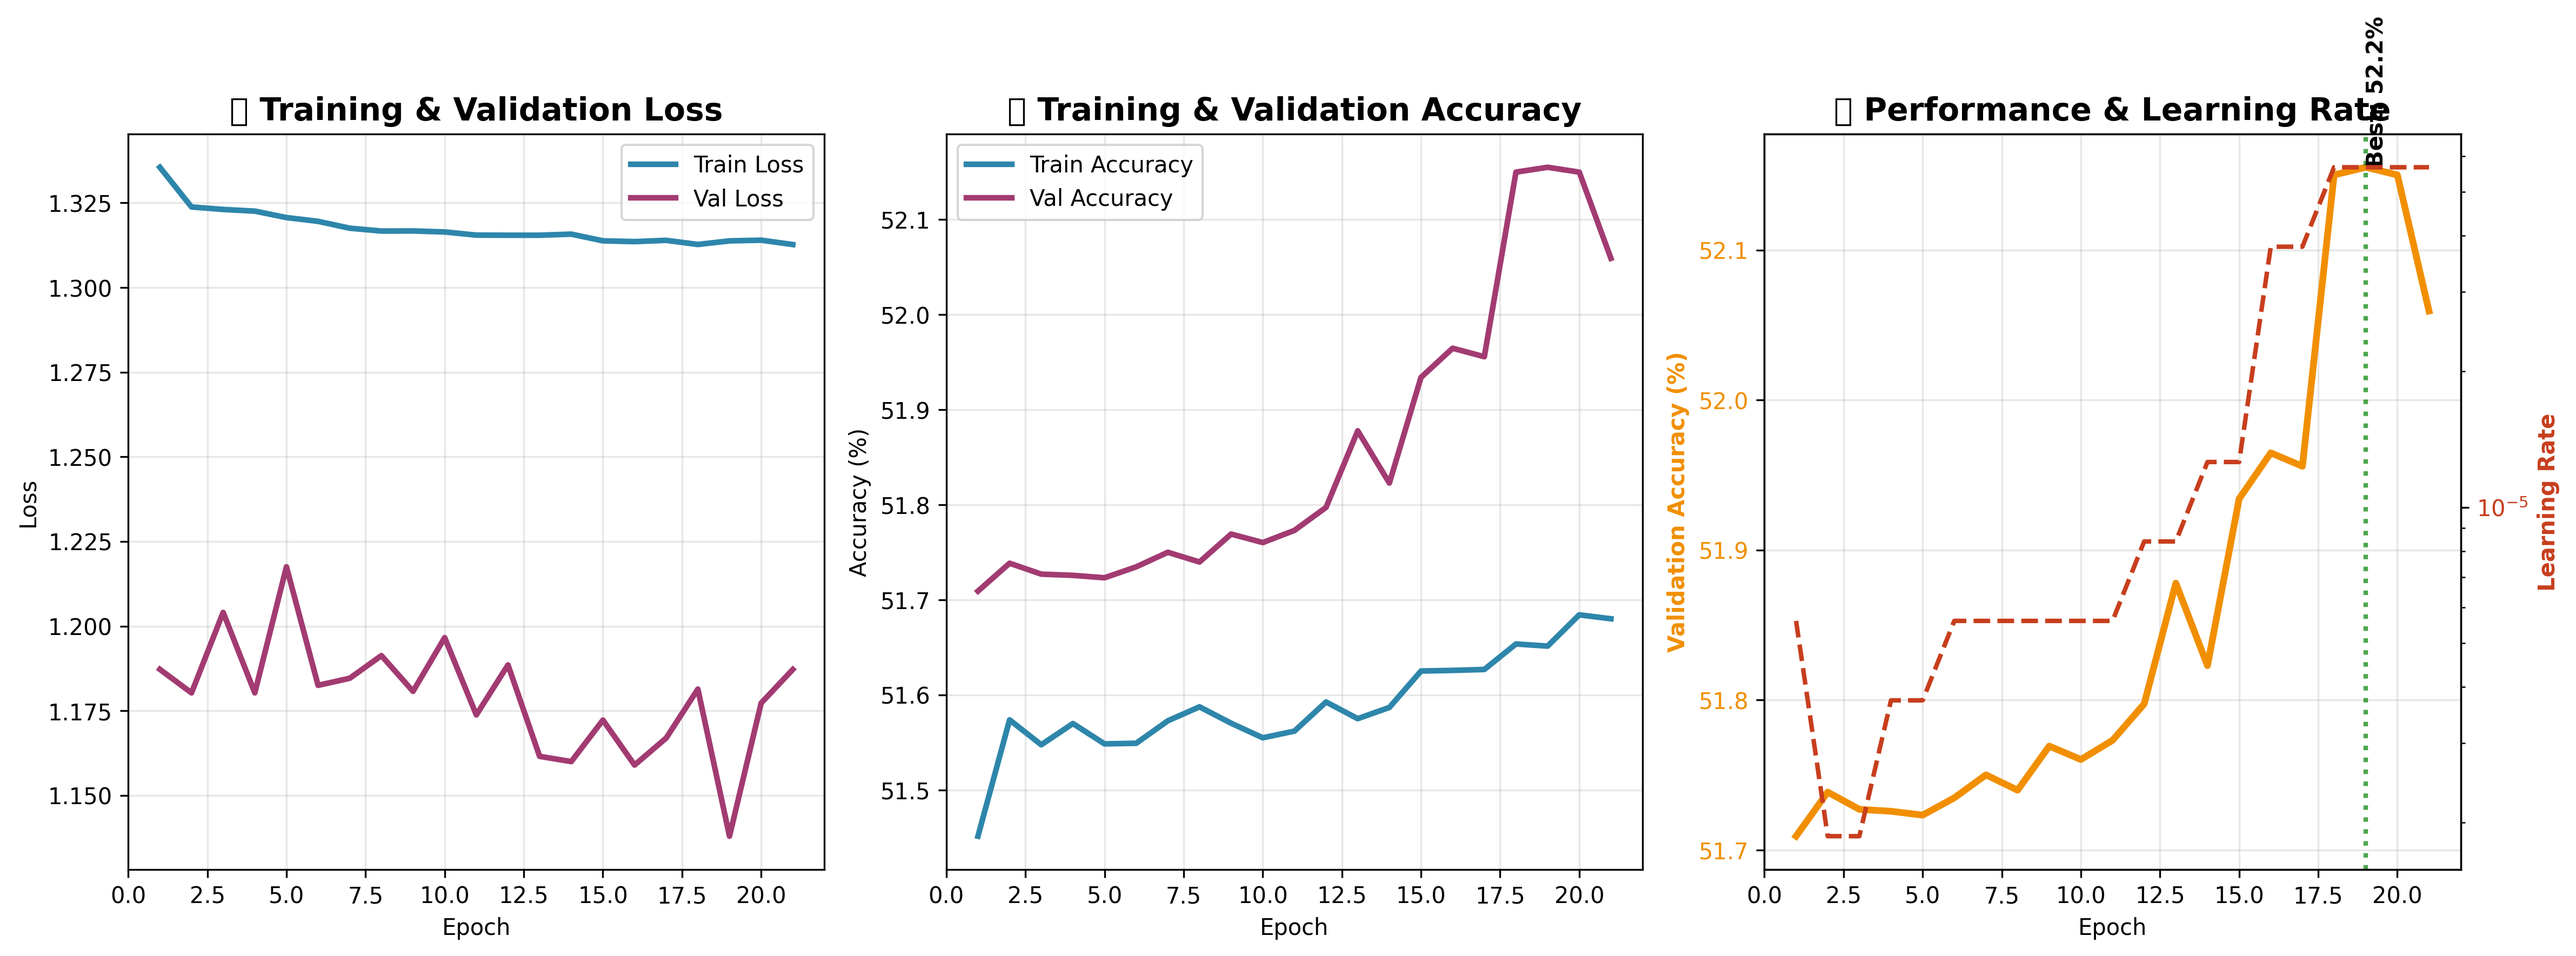
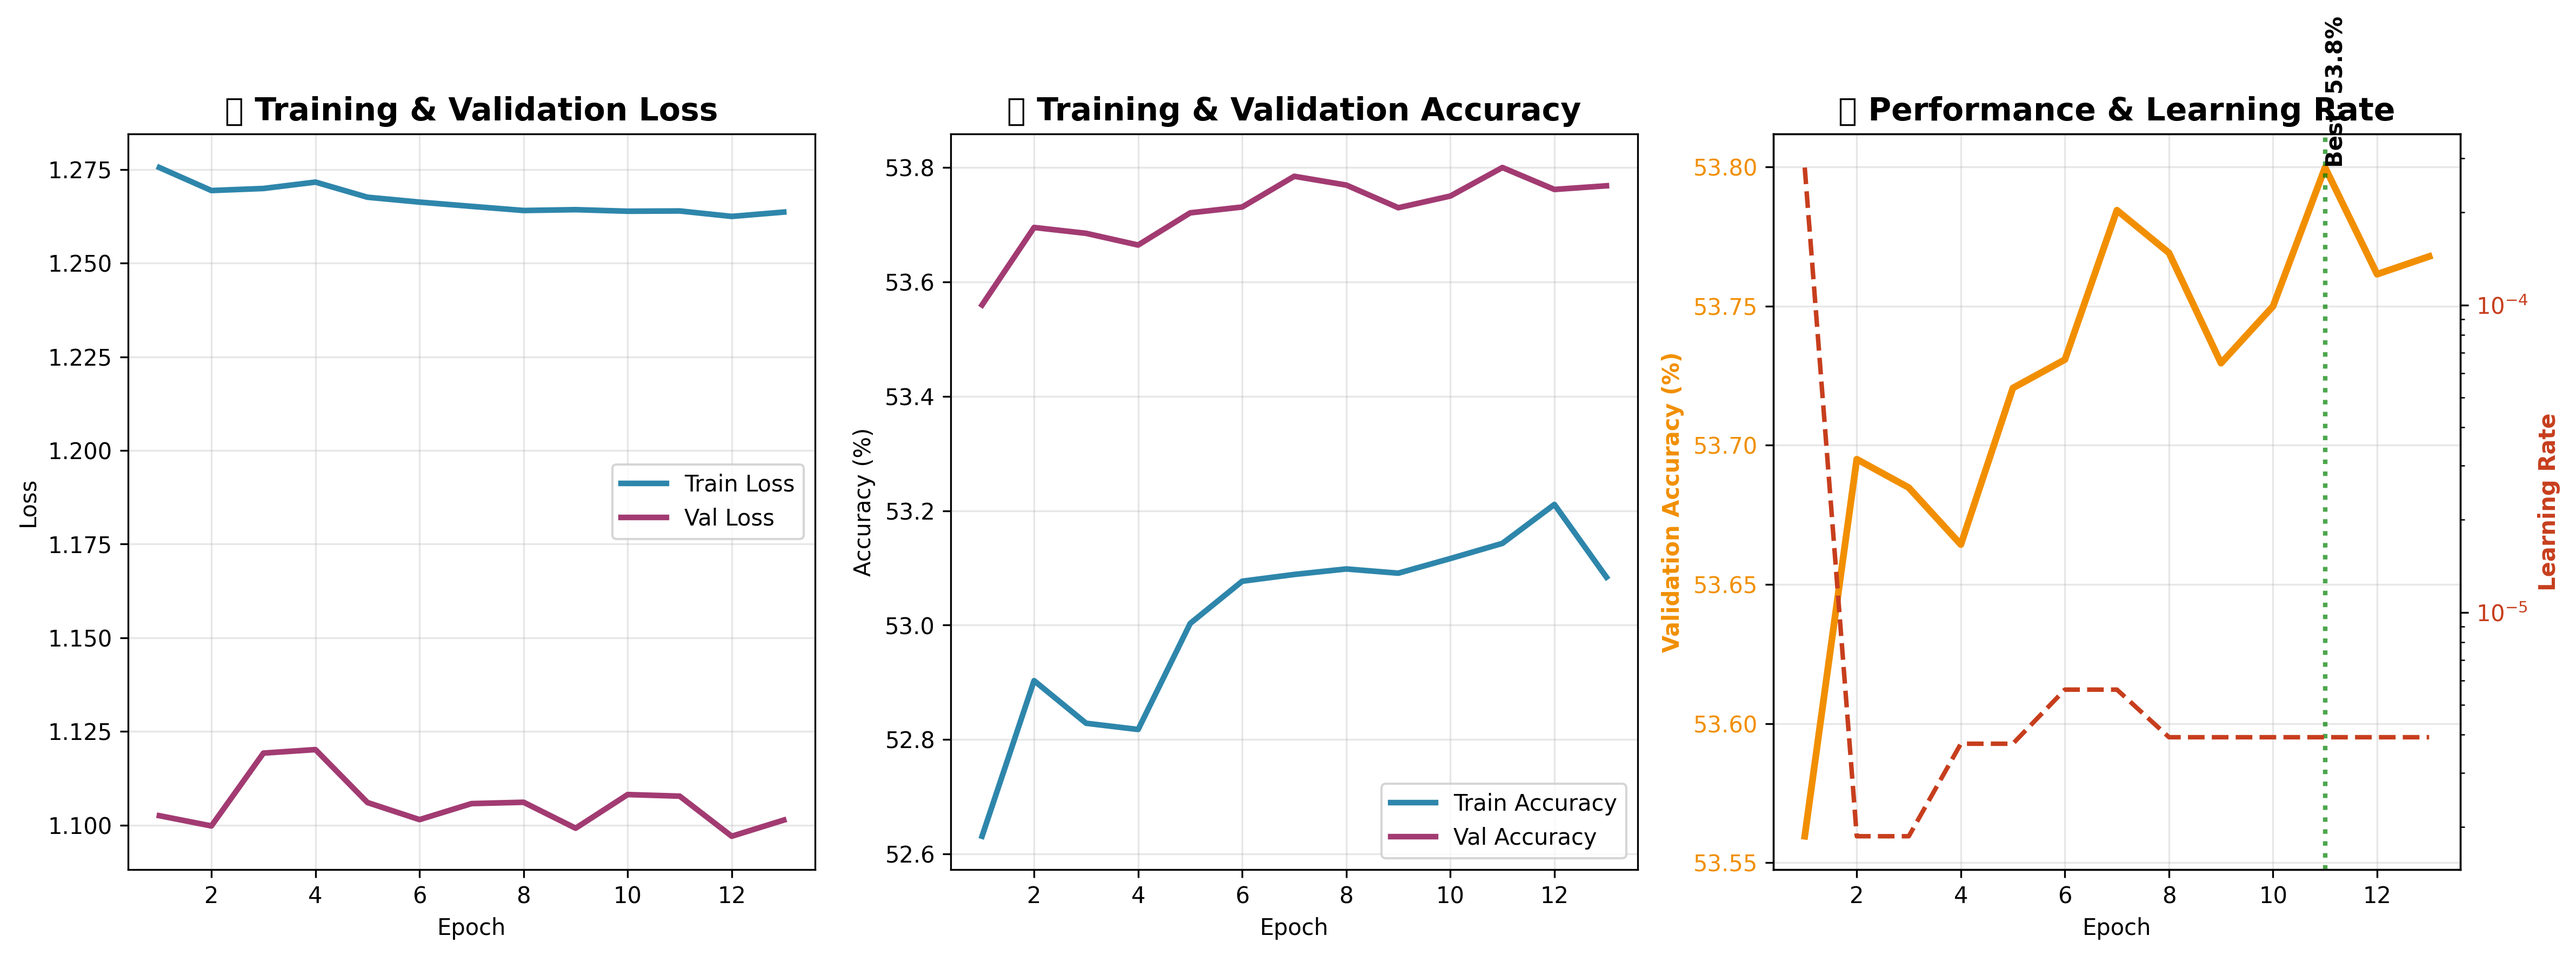
8/6 Changes
Made model bigger
Bigger batch sizes
Switched to one-cycle learning rate scheduler
150 epochs

diff --git a/price model/src/models/timesnet_hybrid.py b/price model/src/models/timesnet_hybrid.py
@@ -54,6 +54,7 @@ class MultiScaleCNN(nn.Module):
         out = torch.cat([b1, b3, b5], dim=1)  # (B, 3*out_channels, T)
         # Global pooling over time dim (T=5) ➜ (B, C)
         out = F.adaptive_avg_pool1d(out, 1).squeeze(-1)
+        out = F.dropout(out, p=0.3, training=self.training)  # Added dropout for regularisation
         return out  # (B, C)
 
 
@@ -127,12 +128,13 @@ class TimesNetEncoder(nn.Module):
 # Gated Residual Fusion + Classifier
 # ---------------------------------------------------------------------------
 class TimesNetHybrid(nn.Module):
-    def __init__(self, features_per_day: int = 62, num_classes: int = 5):
+    def __init__(self, features_per_day: int = 62, num_classes: int = 5,
+                 cnn_channels: int = 256, timesnet_emb: int = 384, timesnet_depth: int = 4):
         super().__init__()
-        self.cnn = MultiScaleCNN(features_per_day, out_channels=96)  # ➜ 288-d
-        self.timesnet = TimesNetEncoder(in_features=features_per_day, emb_dim=192, depth=3)  # 192-d
-        fused_dim = 288  # cnn
-        times_dim = 192
+        self.cnn = MultiScaleCNN(features_per_day, out_channels=cnn_channels)  # ➜ 3*cnn_channels-d
+        self.timesnet = TimesNetEncoder(in_features=features_per_day, emb_dim=timesnet_emb, depth=timesnet_depth)
+        fused_dim = cnn_channels * 3  # from MultiScaleCNN concat
+        times_dim = timesnet_emb
         self.gate = nn.Sequential(
             nn.Linear(fused_dim + times_dim, fused_dim, bias=True),
             nn.Sigmoid()
@@ -161,9 +163,11 @@ class TimesNetHybrid(nn.Module):
 # Factory
 # ---------------------------------------------------------------------------
 
-def create_timesnet_hybrid(features_per_day: int = 62, num_classes: int = 5):
-    """Factory so trainers can import a single function."""
-    return TimesNetHybrid(features_per_day=features_per_day, num_classes=num_classes)
+def create_timesnet_hybrid(features_per_day: int = 62, num_classes: int = 5,
+                            cnn_channels: int = 256, timesnet_emb: int = 384, timesnet_depth: int = 4):
+    """Factory that allows passing bigger model hyperparameters."""
+    return TimesNetHybrid(features_per_day=features_per_day, num_classes=num_classes,
+                          cnn_channels=cnn_channels, timesnet_emb=timesnet_emb, timesnet_depth=timesnet_depth)
 
 
 if __name__ == "__main__":

diff --git a/price model/src/training/research_trainer.py b/price model/src/training/research_trainer.py
@@ -180,7 +180,7 @@ class EnhancedCNNResearchTrainer:
         self.patience_counter = 0
         
         # 🎯 LEARNING RATE STRATEGY 
-        self.lr_strategy = 'adaptive'  # Revert to proven fast method
+        self.lr_strategy = 'onecycle'  # Regular OneCycleLR schedule (aggressive off)
         self.use_swa = True  # Enable Stochastic Weight Averaging for final accuracy boost
         
         # Mixed precision training for better performance
@@ -1122,8 +1122,8 @@ def main():
     # ============================================================
     # These settings use the proven adaptive scheduler that achieved 53.7%
     # Combined with extended training and enhanced regularization for 60%+ target
-    batch_size = 32              # Reduced from 64 → Better generalization with smaller batches
-    epochs = 100                 # Extended for proven adaptive method → Should reach 55-60% faster
+    batch_size = 128              # Reduced from 64 → Better generalization with smaller batches
+    epochs = 150                 # Extended for proven adaptive method → Should reach 55-60% faster
     learning_rate = 2.8e-4       # Set to your observed optimal value → Adaptive scheduler will build on this
     weight_decay = 5e-4          # Increased from 1e-4 → Stronger L2 regularization
     test_size = 0.2
@@ -1173,7 +1173,7 @@ def main():
     test_loader = DataLoader(test_dataset, batch_size=batch_size, shuffle=False)
     
     # ----- Model Selection -----
-    MODEL_TYPE = "optimized_timesnet_hybrid"  # Using optimized version to prevent overfitting
+    MODEL_TYPE = "timesnet_hybrid"  # Using optimized version to prevent overfitting
     
     # 🔄 CHECKPOINT LOADING CONFIGURATION
     # =====================================
@@ -1202,7 +1202,10 @@ def main():
     elif MODEL_TYPE == "timesnet_hybrid":
         model = create_timesnet_hybrid(
             features_per_day=features_per_day,
-            num_classes=5
+            num_classes=5,
+            cnn_channels=256,
+            timesnet_emb=384,
+            timesnet_depth=4
         )
     elif MODEL_TYPE == "simple_cnn":
         from src.training.simple_cnn_trainer import SimpleCNN  # Lazy import
